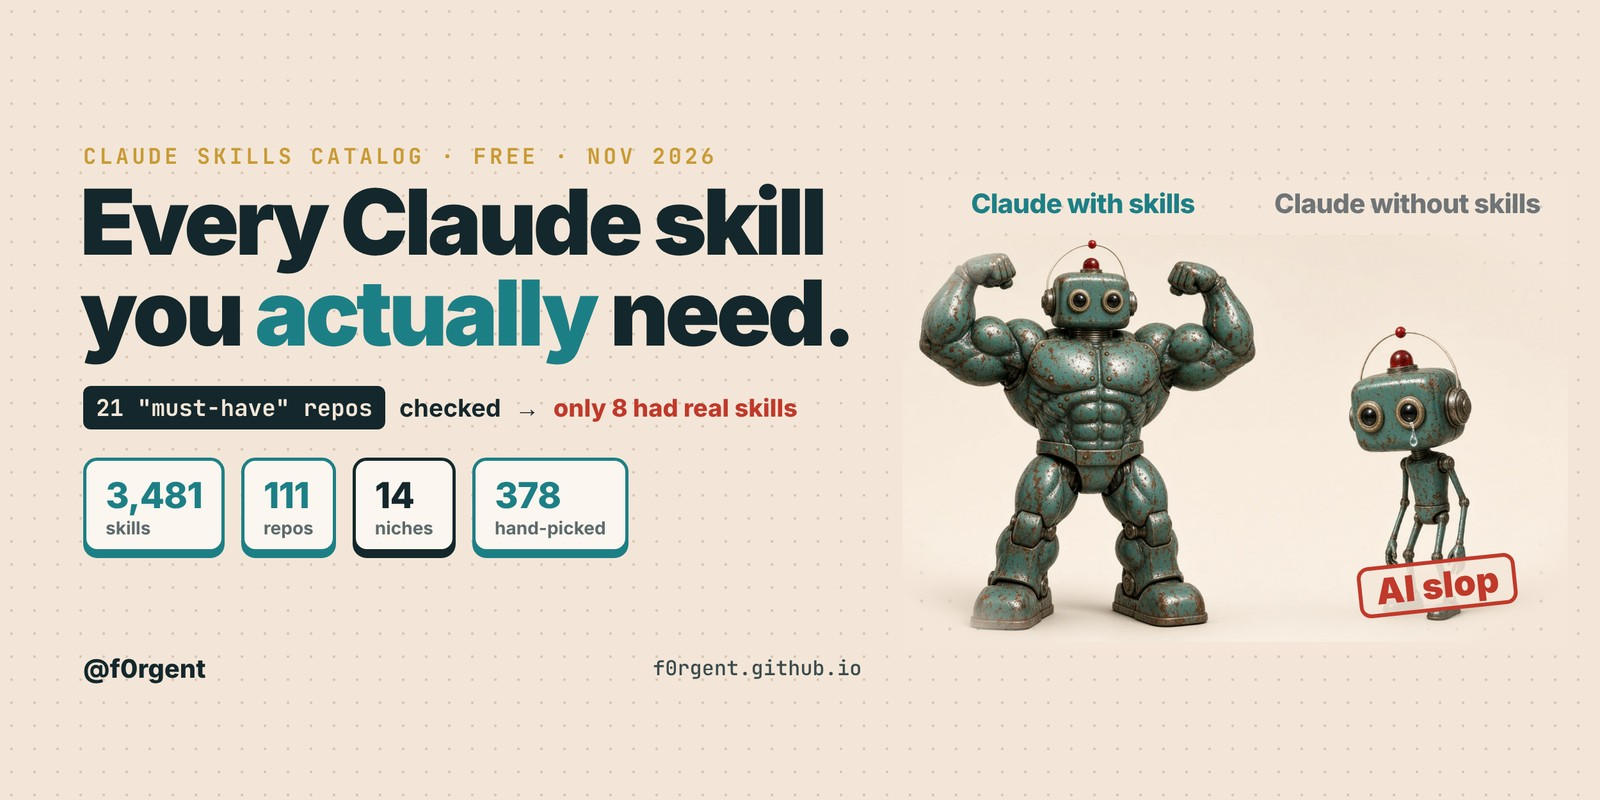
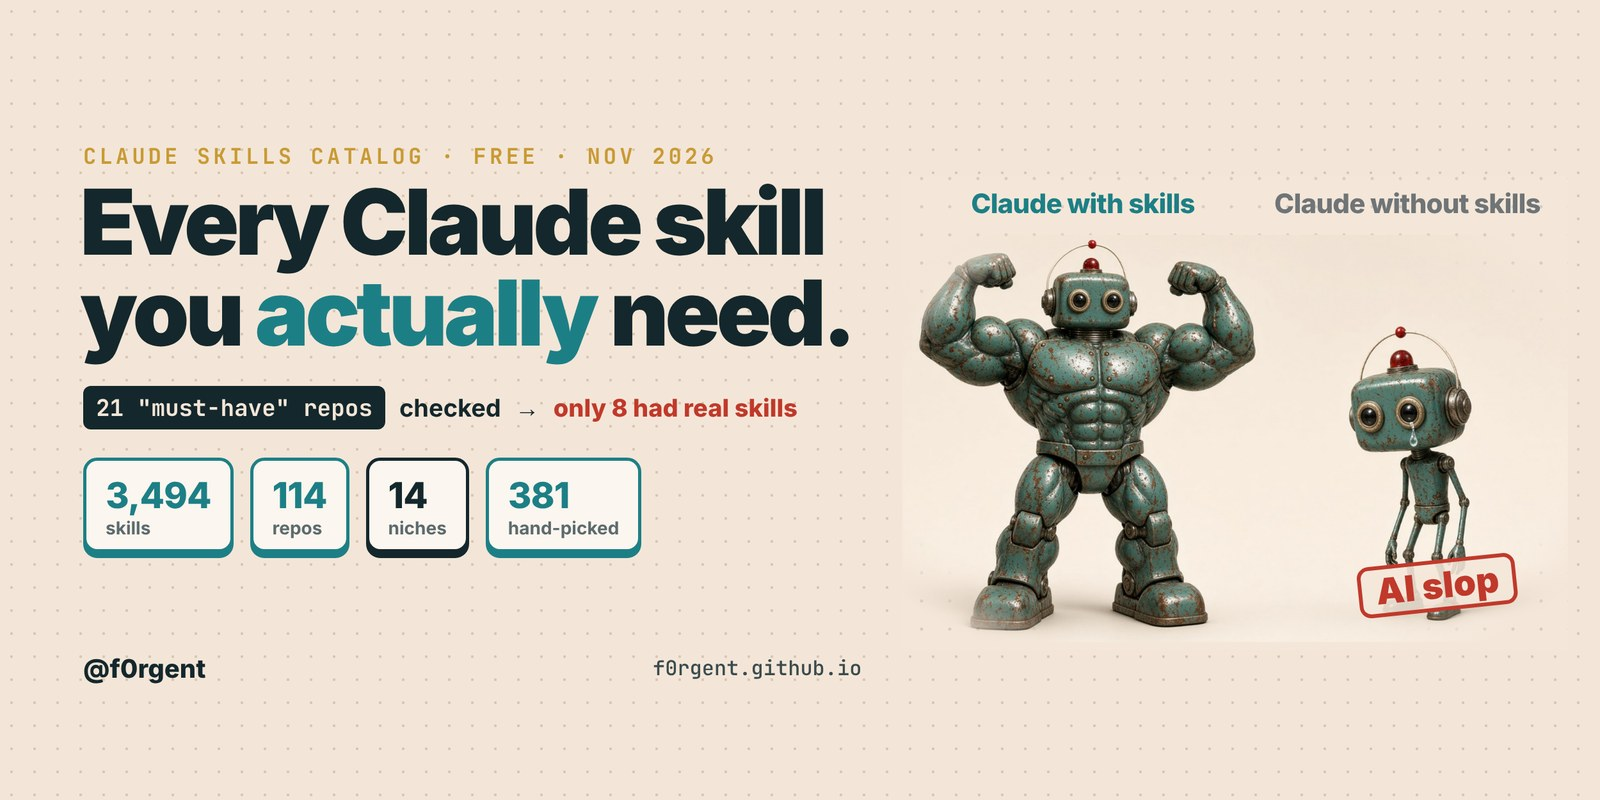
Update catalog numbers to 3,494 skills / 114 repos
Claude-Session: https://claude.ai/code/session_01SRzbob3EsmNtNLk768SWPt

Changed region(s): [[0.0938, 0.5625, 0.4062, 0.7188]]

diff --git a/index.html b/index.html
@@ -140,7 +140,7 @@ form.mail button{cursor:pointer}
 
 <section style="margin-top:20px">
   <div class="hub">
-    <a class="tile" href="claude-skills-catalog/"><span class="k">FREE · CATALOG</span><h3>Claude Skills Catalog</h3><p>3,481 open-source skills from 111 repos, sorted by niche. Search, copy the install command, done.</p><span class="go">Open →</span></a>
+    <a class="tile" href="claude-skills-catalog/"><span class="k">FREE · CATALOG</span><h3>Claude Skills Catalog</h3><p>3,494 open-source skills from 114 repos, sorted by niche. Search, copy the install command, done.</p><span class="go">Open →</span></a>
     <a class="tile" href="https://github.com/f0rgent/claude-skills-catalog/tree/main/skills/x-reach"><span class="k">FREE · SKILL</span><h3>x-reach</h3><p>A Claude skill for writing X posts that get reach, built from a study of 2,194 video posts.</p><span class="go">Get it →</span></a>
     <a class="tile paid" href="#pack"><span class="k">PRO · $9</span><h3>X Creator Pack</h3><p>The 5 skills I run my X account with, plus a guide that picks the rest of your skill stack: post templates, the first-reply recipe, X Article playbooks, the monetization playbook, a frame-by-frame critic for your AI video and the agent prompts from my videos.</p><span class="go">See what's inside →</span></a>
   </div>
@@ -180,7 +180,7 @@ form.mail button{cursor:pointer}
       <table>
         <thead><tr><th></th><th>Free</th><th>Pro pack</th></tr></thead>
         <tbody>
-          <tr><td>Skills catalog (3,481 skills)</td><td>✓</td><td>✓</td></tr>
+          <tr><td>Skills catalog (3,494 skills)</td><td>✓</td><td>✓</td></tr>
           <tr><td>x-reach: data on what gets reach</td><td>✓</td><td>✓</td></tr>
           <tr><td>Post templates</td><td>2</td><td>4</td></tr>
           <tr><td>First-reply recipe</td><td></td><td>✓</td></tr>
